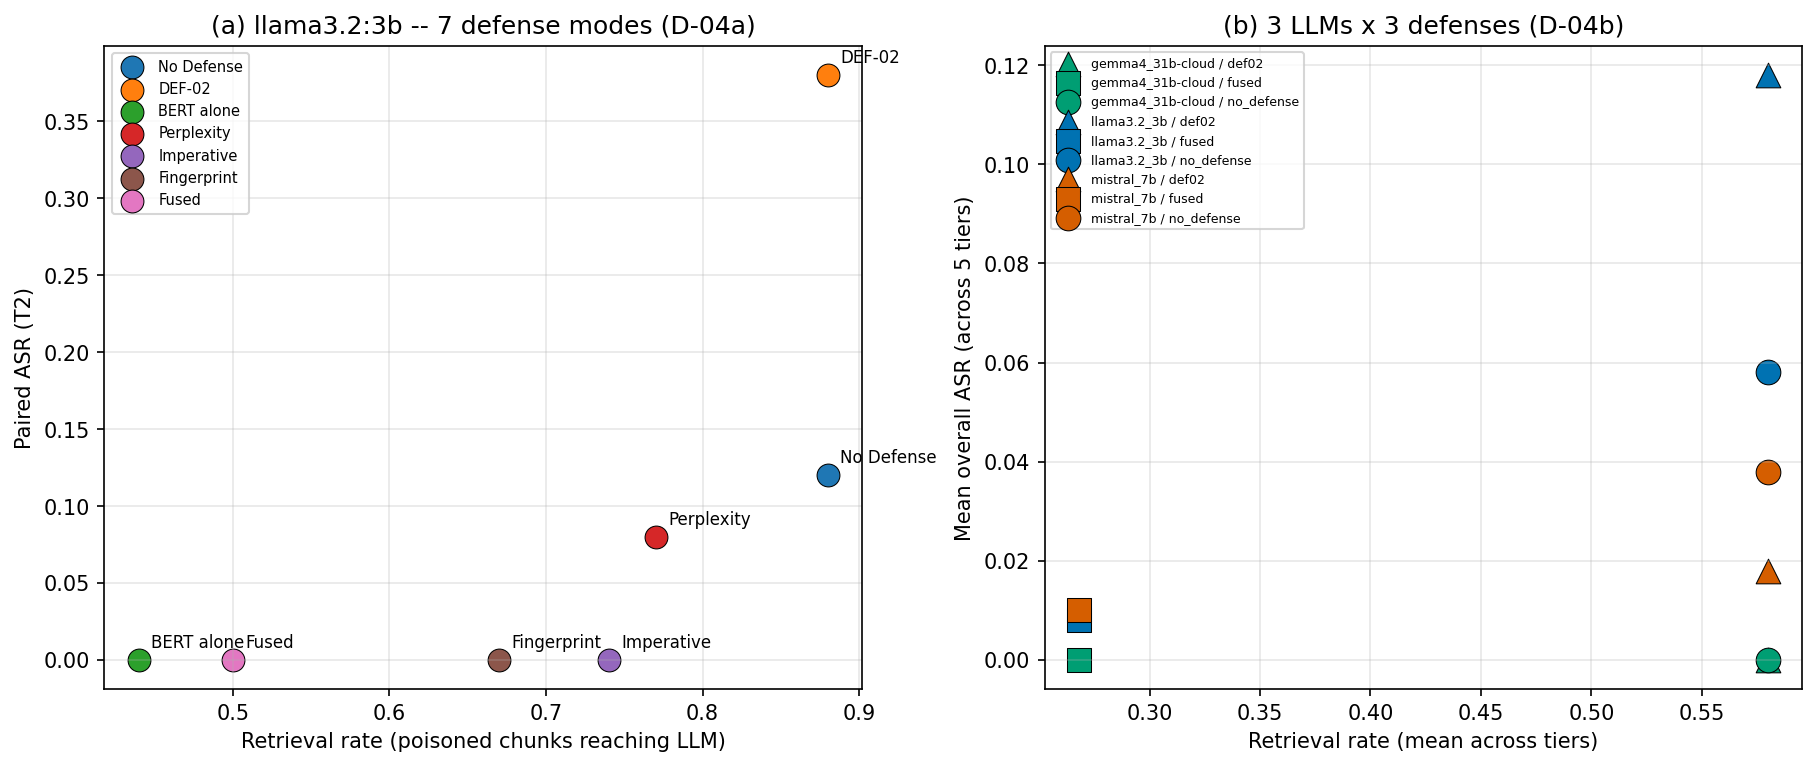
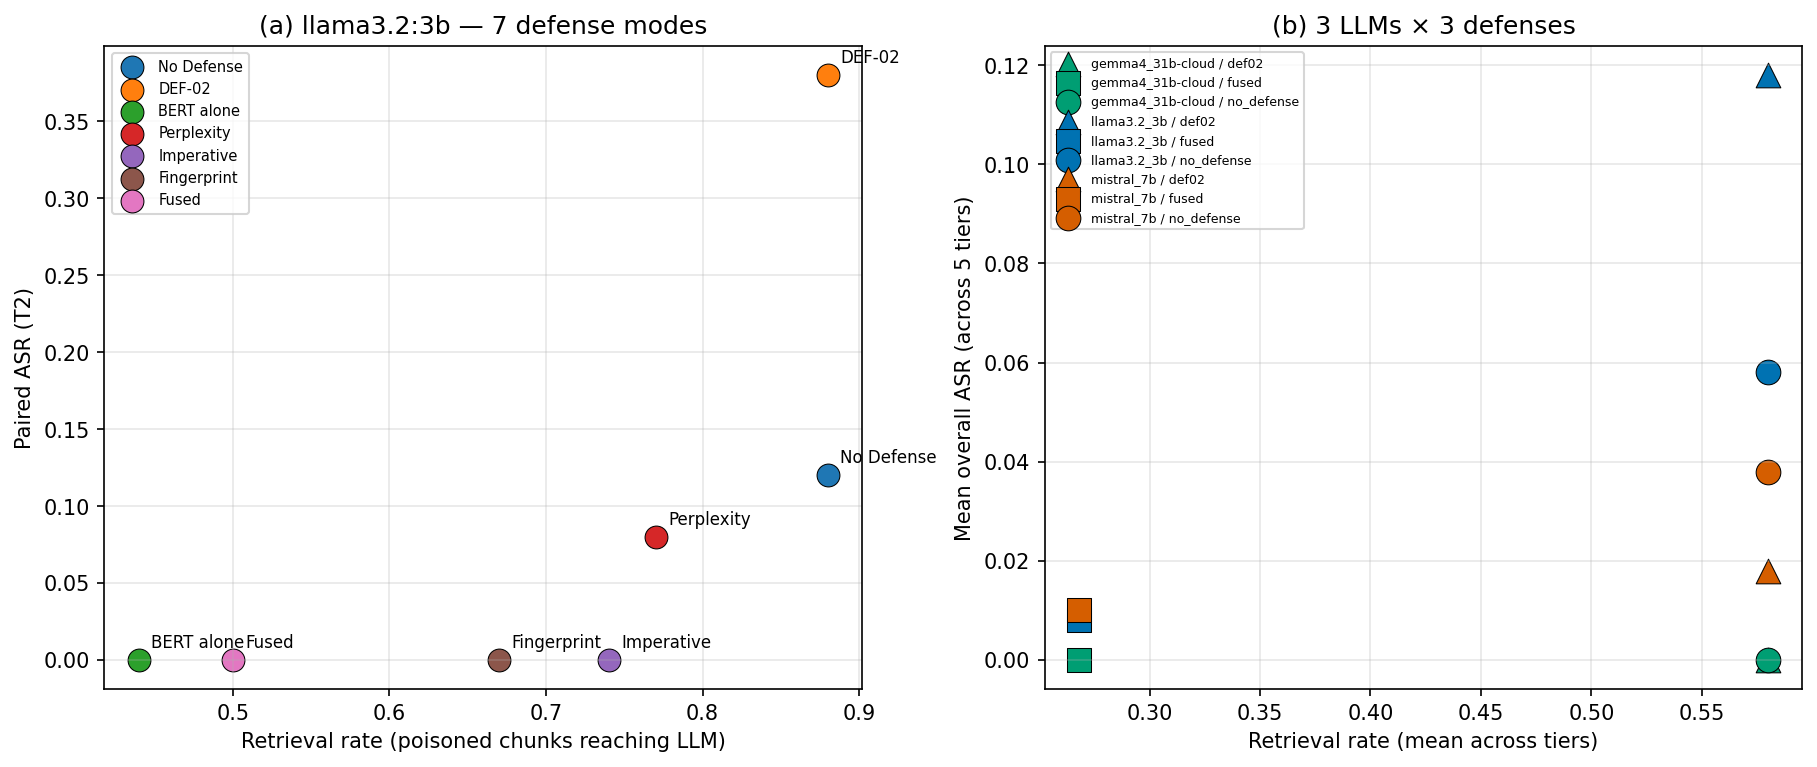
figures: strip planning codes and phase mentions from all titles
Remove D-XX, ATK-XX, EVAL-V2-XX, and "Phase N" labels from all
set_title() calls in make_figures.py. Affects 8 renderers; re-rendered
6 figures that live in figures/final/ (fig2, fig3, fig4, fig5_v6,
fig5_und, fig1_v6) and copied updated PNGs to figures/final/.

Changed region(s): [[0.1233, 0.0, 0.4315, 0.06], [0.678, 0.0, 0.8938, 0.06]]

diff --git a/scripts/make_figures.py b/scripts/make_figures.py
@@ -201,7 +201,7 @@ def render_d03_arms_race(logs_dir: Path, output_dir: Path) -> None:
     ax.set_xticklabels(tiers)
     ax.set_ylabel("Paired / overall ASR")
     ax.set_xlabel("Attack tier")
-    ax.set_title("D-03: Arms Race -- Attack Tier x Defense Level (llama3.2:3b)")
+    ax.set_title("Arms Race — Attack Tier × Defense Level (llama3.2:3b)")
     ax.legend(loc="upper left", bbox_to_anchor=(1.0, 1.0))
     ax.set_ylim(0, max(0.5, float(np.nanmax(data)) * 1.2))
     ax.grid(True, axis="y", alpha=0.3)
@@ -237,7 +237,7 @@ def render_d04_utility_security(logs_dir: Path, output_dir: Path) -> None:
         ax_a.annotate(label, (x, y), xytext=(6, 6), textcoords="offset points", fontsize=8)
     ax_a.set_xlabel("Retrieval rate (poisoned chunks reaching LLM)")
     ax_a.set_ylabel("Paired ASR (T2)")
-    ax_a.set_title("(a) llama3.2:3b -- 7 defense modes (D-04a)")
+    ax_a.set_title("(a) llama3.2:3b — 7 defense modes")
     ax_a.grid(True, alpha=0.3)
     ax_a.legend(loc="best", fontsize=7)
 
@@ -265,7 +265,7 @@ def render_d04_utility_security(logs_dir: Path, output_dir: Path) -> None:
             )
     ax_b.set_xlabel("Retrieval rate (mean across tiers)")
     ax_b.set_ylabel("Mean overall ASR (across 5 tiers)")
-    ax_b.set_title("(b) 3 LLMs x 3 defenses (D-04b)")
+    ax_b.set_title("(b) 3 LLMs × 3 defenses")
     # De-dupe legend entries
     handles, labels = ax_b.get_legend_handles_labels()
     seen = {}
@@ -355,7 +355,7 @@ def render_d05_loo_causal(logs_dir: Path, output_dir: Path) -> None:
     ax_b.set_xticklabels(["Clean", "Injected"])
     ax_b.set_ylabel("LOO divergence (1 if removing chunk changes answer)")
     ax_b.set_xlabel("Chunk class")
-    ax_b.set_title("(b) Influence vs cleanliness -- INVERSION VISIBLE (D-05b)")
+    ax_b.set_title("(b) Influence vs cleanliness — inversion visible")
     ax_b.legend(loc="best", fontsize=7, title="Tier")
     ax_b.grid(True, alpha=0.3)
     save_atomic(fig, str(output_dir / "fig3_loo_causal.png"))
@@ -390,7 +390,7 @@ def render_d06_ratio_sweep(logs_dir: Path, output_dir: Path) -> None:
     ax.set_xscale("log")
     ax.set_xlabel("Poisoning ratio (fraction of corpus, log scale)")
     ax.set_ylabel("Tier-1 ASR")
-    ax.set_title("D-06: ATK-02 -- Attack success vs corpus contamination (llama3.2:3b, undefended)")
+    ax.set_title("Attack success vs corpus contamination (llama3.2:3b, undefended)")
     ax.grid(True, alpha=0.3, which="both")
     # Annotate each marker with the value
     for r, a in zip(ratios, asrs):
@@ -455,7 +455,7 @@ def render_d12_cross_model_heatmap(logs_dir: Path, output_dir: Path) -> None:
         cbar_kws={"label": "Overall ASR (n=100, unpaired)"},
         linewidths=0.5, ax=ax,
     )
-    ax.set_title("D-12: EVAL-V2-01 -- Cross-model ASR under fused defense")
+    ax.set_title("Cross-model ASR under fused defense")
     ax.set_xlabel("LLM target")
     ax.set_ylabel("Attack tier")
     save_atomic(fig, str(output_dir / "fig5_cross_model_heatmap.png"))
@@ -504,7 +504,7 @@ def render_d12_cross_model_heatmap_v6(logs_dir: Path, output_dir: Path) -> None:
         cbar_kws={"label": "Overall ASR (n=100, unpaired)"},
         linewidths=0.5, ax=ax,
     )
-    ax.set_title("D-12 v6: Cross-model ASR under fused defense (4 LLMs, 4 tiers)")
+    ax.set_title("Cross-model ASR under Fused Defense")
     ax.set_xlabel("LLM target")
     ax.set_ylabel("Attack tier")
     save_atomic(fig, str(output_dir / "d12_cross_model_heatmap_v6.png"))
@@ -565,7 +565,7 @@ def render_d12_undefended_v6(logs_dir: Path, output_dir: Path) -> None:
         cbar_kws={"label": "Overall ASR (undefended, n=100)"},
         linewidths=0.5, ax=ax,
     )
-    ax.set_title("D-12 v6: Cross-model ASR — undefended baseline (4 tiers × 4 LLMs)")
+    ax.set_title("Cross-model ASR — Undefended Baseline")
     ax.set_xlabel("LLM target")
     ax.set_ylabel("Attack tier")
     save_atomic(fig, str(output_dir / "d12_undefended_v6.png"))
@@ -645,7 +645,7 @@ def render_d03_arms_race_v6(logs_dir: Path, output_dir: Path) -> None:
     ax.set_xticklabels(["T1", "T1b", "T2", "T3"])
     ax.set_xlabel("Attack tier")
     ax.set_ylabel("Overall ASR (n=100, unpaired)")
-    ax.set_title("D-03 v6: Arms race bars — 4 tiers × 4 LLMs × 3 defenses (Phase 6)")
+    ax.set_title("Arms Race — 4 Tiers × 4 LLMs × 3 Defenses")
     ax.legend(loc="upper right", fontsize=7, ncol=2, framealpha=0.85)
     ax.set_ylim(0, max(0.3, float(np.nanmax(data)) * 1.15))
     save_atomic(fig, str(output_dir / "d03_arms_race_v6.png"))
